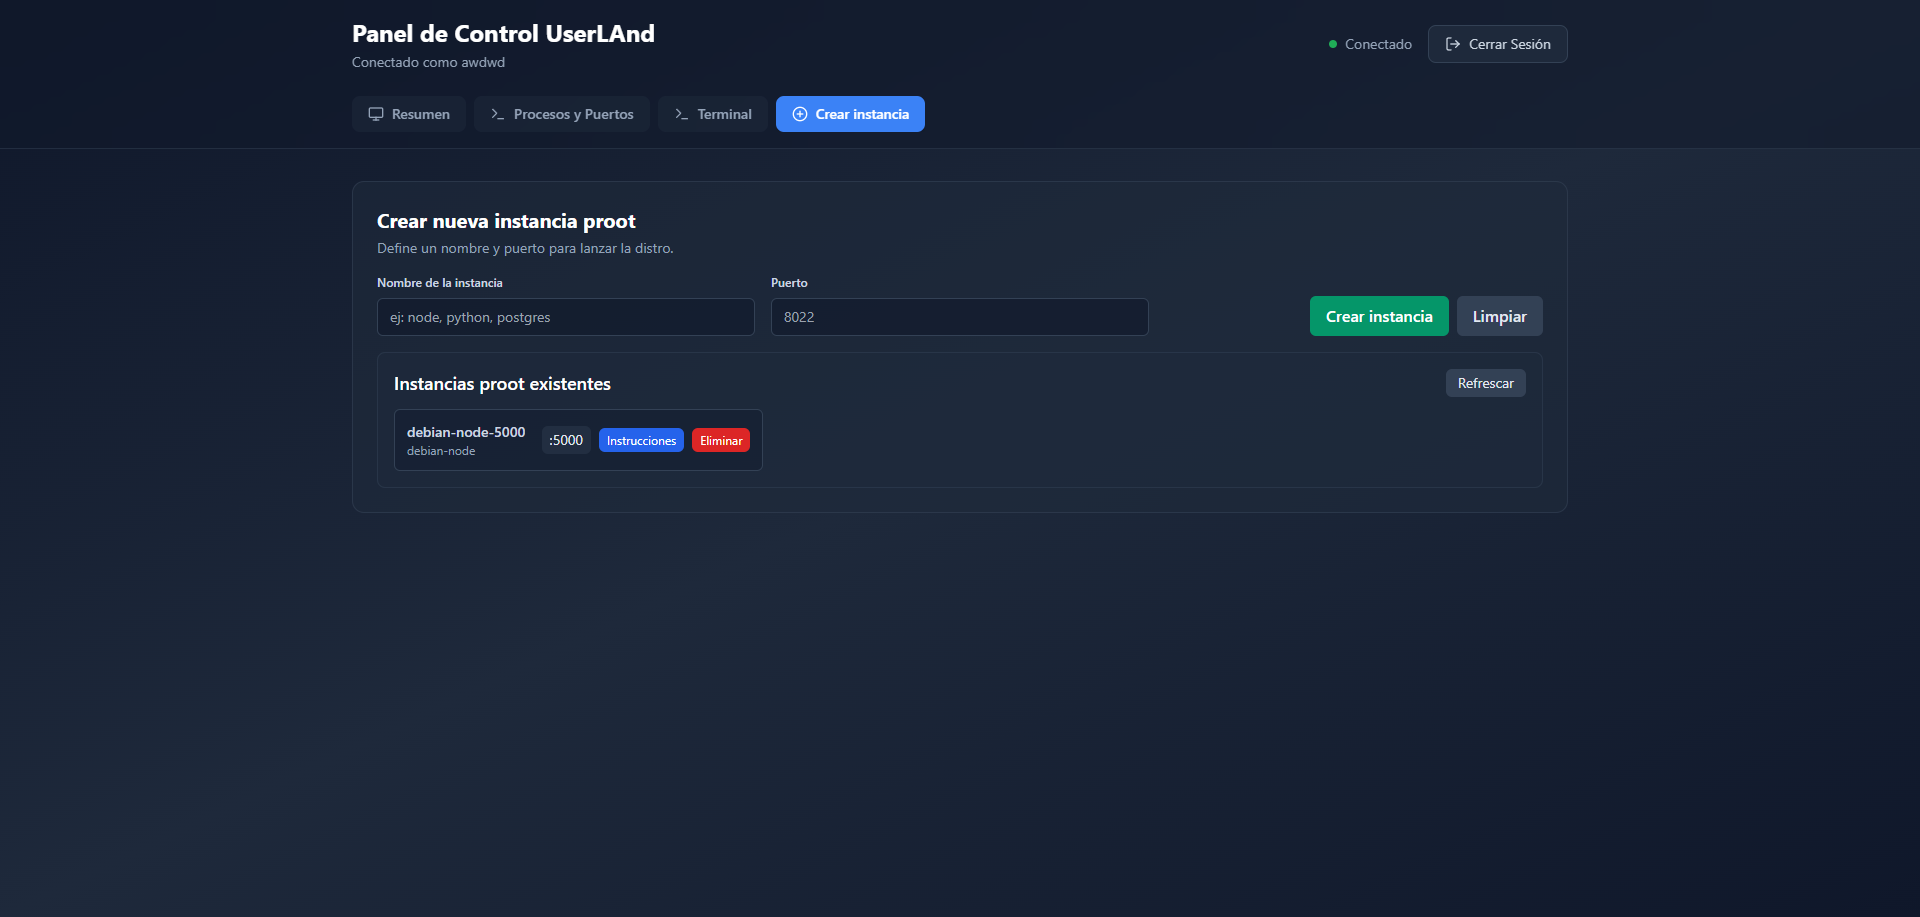
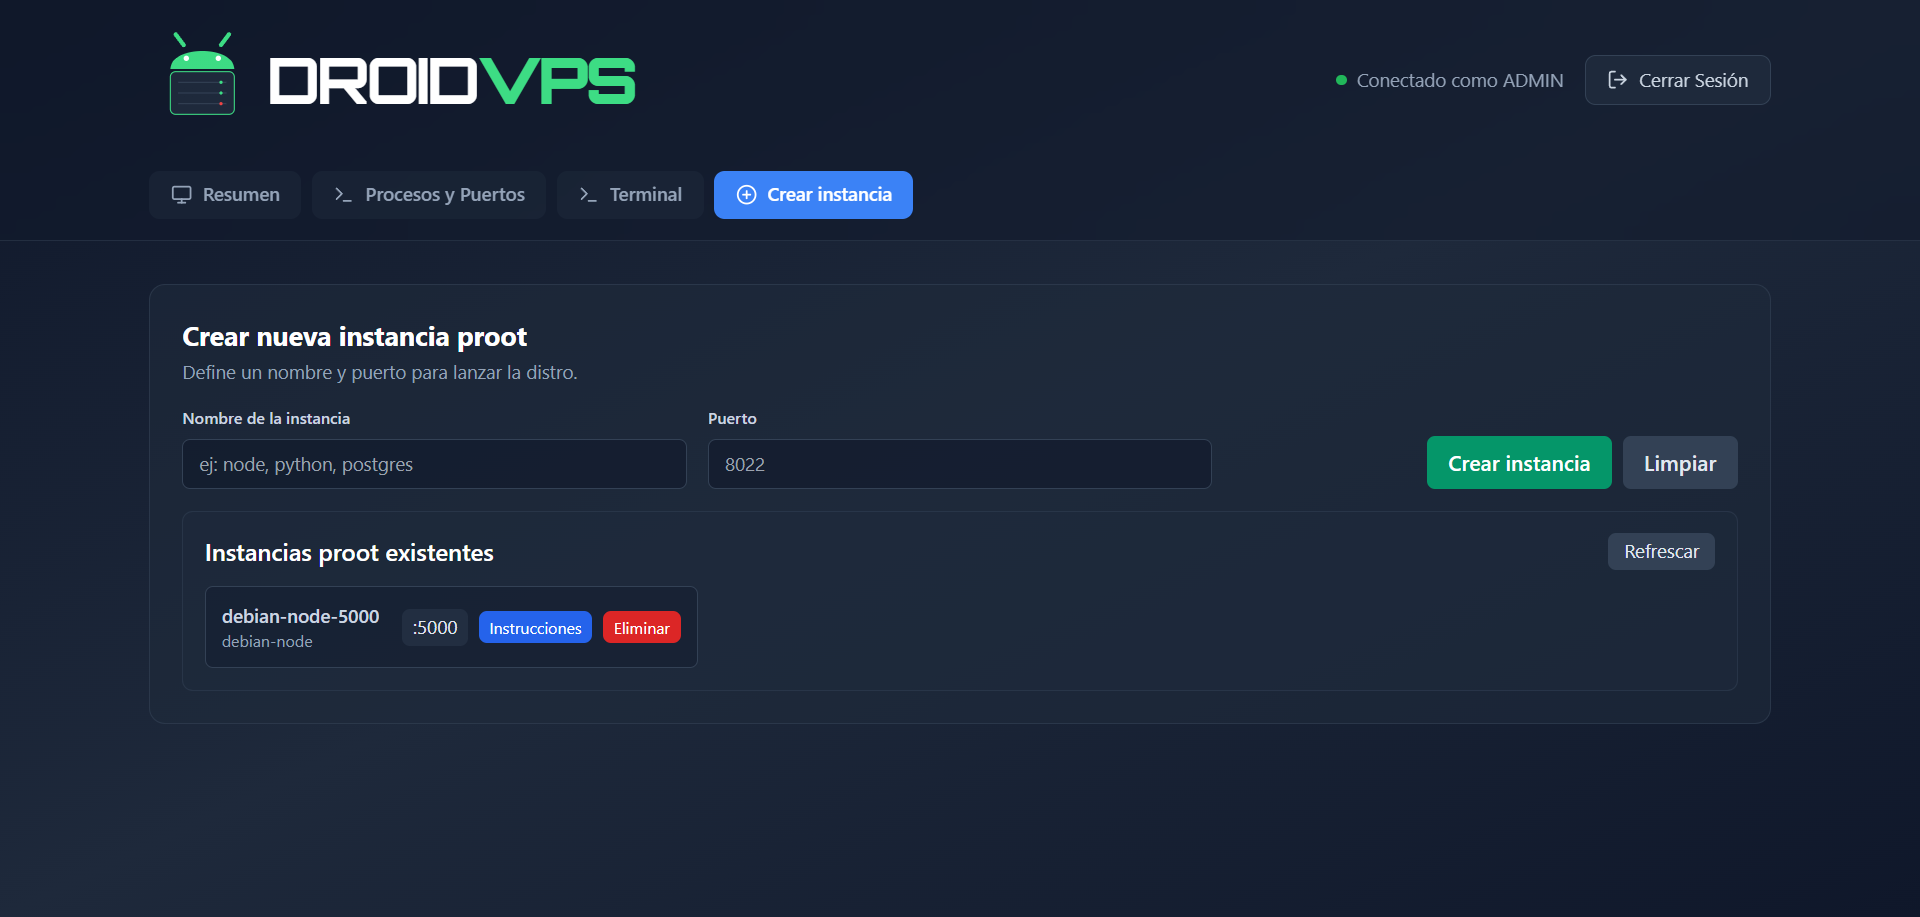
Update project

diff --git a/panel/src/components/Login.tsx b/panel/src/components/Login.tsx
@@ -23,11 +23,58 @@ export function Login({ onLogin, isLoading, error }: LoginProps) {
       <div className="w-full max-w-md">
         <div className="bg-slate-800/50 backdrop-blur-xl rounded-2xl shadow-2xl border border-slate-700/50 p-8">
           <div className="text-center mb-8">
-            <div className="inline-flex items-center justify-center w-16 h-16 bg-gradient-to-br from-blue-500 to-cyan-500 rounded-2xl mb-4 shadow-lg">
-              <FiUser className="w-8 h-8 text-white" />
+            {/* <div className="inline-flex items-center justify-center w-16 h-16 bg-gradient-to-br from-green-500 to-cyan-500 rounded-2xl mb-4 shadow-lg">
+              <FiUser className="w-8 h-8 text-white" /> */}
+            {/* <!-- Icono SVG --> */}
+            <div className="flex flex-col items-center mb-4">
+              <svg viewBox="0 0 200 200" fill="none" xmlns="http://www.w3.org/2000/svg" className="mb-2 w-28 h-28">
+                <defs>
+                  <linearGradient id="droidGradient" x1="0" y1="0" x2="200" y2="200">
+                    <stop offset="0%" stopColor="#3DDC84" /> {/* Android Green */}
+                    <stop offset="100%" stop-color="#258f56" />
+                  </linearGradient>
+                  <linearGradient id="serverGradient" x1="50" y1="80" x2="150" y2="150">
+                    <stop offset="0%" stop-color="#1e293b" />
+                    <stop offset="100%" stop-color="#0f172a" />
+                  </linearGradient>
+                </defs>
+
+                {/* <!-- Antenas (Conexión) --> */}
+                <path d="M65 45 L50 25" stroke="#3DDC84" stroke-width="8" stroke-linecap="round" />
+                <path d="M135 45 L150 25" stroke="#3DDC84" stroke-width="8" stroke-linecap="round" />
+
+                {/* <!-- Cabeza Droide (Mitad superior) --> */}
+                <path d="M40 90 C40 45 160 45 160 90 Z" fill="url(#droidGradient)" />
+
+                {/* <!-- Cuerpo/Servidor (Mitad inferior rectangular) --> */}
+                <rect x="40" y="95" width="120" height="80" rx="10" fill="url(#serverGradient)" stroke="#3DDC84" stroke-width="2" />
+
+                {/* <!-- Racks del servidor (Líneas horizontales) --> */}
+                <line x1="55" y1="115" x2="145" y2="115" stroke="#334155" stroke-width="2" />
+                <line x1="55" y1="135" x2="145" y2="135" stroke="#334155" stroke-width="2" />
+                <line x1="55" y1="155" x2="145" y2="155" stroke="#334155" stroke-width="2" />
+
+                {/* <!-- Luces de estado del servidor (Ojos/Leds) --> */}
+                <circle cx="70" cy="70" r="5" fill="white" />
+                <circle cx="130" cy="70" r="5" fill="white" />
+
+                {/* <!-- Luces de actividad del rack --> */}
+                <circle className="server-light" cx="135" cy="115" r="3" fill="#3DDC84" />
+                <circle className="server-light" cx="135" cy="135" r="3" fill="#3DDC84" />
+                <circle className="server-light" cx="135" cy="155" r="3" fill="#ef4444" /> {/* Luz roja de alerta/busy */}
+
+              </svg>
+              {/* Tipografía */}
+              <div className="text-center">
+                <h1 className="text-5xl tracking-tighter" style={{ fontFamily: 'Orbitron, sans-serif' }}>
+                  <span className="text-white font-bold">DROID</span><span className="text-[#3DDC84] font-black">VPS</span>
+                </h1>
+                <p className="text-slate-400 text-sm mt-2 tracking-widest uppercase">Monitorea y controla tu entorno DroidVPS</p>
+              </div>
             </div>
-            <h1 className="text-3xl font-bold text-white mb-2">Panel de Control DroidVPS</h1>
-            <p className="text-slate-400">Monitorea y controla tu entorno DroidVPS</p>
+            {/* </div> */}
+            {/* <h1 className="text-3xl font-bold text-white mb-2">Panel de Control DroidVPS</h1>
+            <p className="text-slate-400">Monitorea y controla tu entorno DroidVPS</p> */}
           </div>
 
           <form onSubmit={handleSubmit} className="space-y-5">
@@ -41,7 +88,7 @@ export function Login({ onLogin, isLoading, error }: LoginProps) {
                   type="text"
                   value={username}
                   onChange={(e) => setUsername(e.target.value)}
-                  className="w-full pl-11 pr-4 py-3 bg-slate-900/50 border border-slate-600 rounded-lg text-white placeholder-slate-500 focus:outline-none focus:ring-2 focus:ring-blue-500 focus:border-transparent transition"
+                  className="w-full pl-11 pr-4 py-3 bg-slate-900/50 border border-slate-600 rounded-lg text-white placeholder-slate-500 focus:outline-none focus:ring-2 focus:ring-green-500 focus:border-transparent transition"
                   placeholder="Ingresa tu nombre de usuario"
                   required
                   autoComplete="username"
@@ -59,7 +106,7 @@ export function Login({ onLogin, isLoading, error }: LoginProps) {
                   type="password"
                   value={password}
                   onChange={(e) => setPassword(e.target.value)}
-                  className="w-full pl-11 pr-4 py-3 bg-slate-900/50 border border-slate-600 rounded-lg text-white placeholder-slate-500 focus:outline-none focus:ring-2 focus:ring-blue-500 focus:border-transparent transition"
+                  className="w-full pl-11 pr-4 py-3 bg-slate-900/50 border border-slate-600 rounded-lg text-white placeholder-slate-500 focus:outline-none focus:ring-2 focus:ring-green-500 focus:border-transparent transition"
                   placeholder="Ingresa tu contraseña"
                   required
                   autoComplete="current-password"
@@ -77,7 +124,7 @@ export function Login({ onLogin, isLoading, error }: LoginProps) {
             <button
               type="submit"
               disabled={isLoading}
-              className="w-full py-3 bg-gradient-to-r from-blue-500 to-cyan-500 text-white font-semibold rounded-lg hover:from-blue-600 hover:to-cyan-600 focus:outline-none focus:ring-2 focus:ring-blue-500 focus:ring-offset-2 focus:ring-offset-slate-800 transition-all disabled:opacity-50 disabled:cursor-not-allowed shadow-lg"
+              className="w-full py-3 bg-gradient-to-r from-green-500 to-cyan-500 text-white font-semibold rounded-lg hover:from-green-600 hover:to-cyan-600 focus:outline-none focus:ring-2 focus:ring-green-500 focus:ring-offset-2 focus:ring-offset-slate-800 transition-all disabled:opacity-50 disabled:cursor-not-allowed shadow-lg"
             >
               {isLoading ? 'Conectando...' : 'Conectar'}
             </button>

diff --git a/panel/src/components/Dashboard.tsx b/panel/src/components/Dashboard.tsx
@@ -156,16 +156,57 @@ export function Dashboard({ serverUrl, token, username, onLogout }: DashboardPro
       <header className="bg-slate-900/50 backdrop-blur-xl border-b border-slate-700/50 sticky top-0 z-40">
         <div className="max-w-7xl mx-auto px-3 sm:px-6 lg:px-8 py-3 sm:py-4">
           <div className="flex flex-col sm:flex-row items-start sm:items-center justify-between gap-3">
-            <div className="flex-1">
-              <h1 className="text-xl sm:text-2xl font-bold text-white">Panel de Control DroidVPS</h1>
-              <p className="text-xs sm:text-sm text-slate-400 mt-1">Conectado como {username}</p>
+            <div className="flex-1 flex flex-row items-center gap-3 w-full lg:w-auto">
+              <div className="flex flex-row items-center gap-2">
+
+                <svg
+                  viewBox="0 0 200 200"
+                  xmlns="http://www.w3.org/2000/svg"
+                  className="w-16 h-16 sm:w-20 sm:h-20 flex-shrink-0 mb-2"
+                  fill="none"
+                >
+                  <defs>
+                    <linearGradient id="droidGradient" x1="0" y1="0" x2="200" y2="200">
+                      <stop offset="0%" stopColor="#3DDC84" />
+                      <stop offset="100%" stopColor="#258f56" />
+                    </linearGradient>
+                    <linearGradient id="serverGradient" x1="50" y1="80" x2="150" y2="150">
+                      <stop offset="0%" stopColor="#1e293b" />
+                      <stop offset="100%" stopColor="#0f172a" />
+                    </linearGradient>
+                  </defs>
+
+                  <path d="M65 45 L50 25" stroke="#3DDC84" strokeWidth="8" strokeLinecap="round" />
+                  <path d="M135 45 L150 25" stroke="#3DDC84" strokeWidth="8" strokeLinecap="round" />
+                  <path d="M40 90 C40 45 160 45 160 90 Z" fill="url(#droidGradient)" />
+                  <rect x="40" y="95" width="120" height="80" rx="10" fill="url(#serverGradient)" stroke="#3DDC84" strokeWidth="2" />
+                  <line x1="55" y1="115" x2="145" y2="115" stroke="#334155" strokeWidth="2" />
+                  <line x1="55" y1="135" x2="145" y2="135" stroke="#334155" strokeWidth="2" />
+                  <line x1="55" y1="155" x2="145" y2="155" stroke="#334155" strokeWidth="2" />
+                  <circle cx="70" cy="70" r="5" fill="white" />
+                  <circle cx="130" cy="70" r="5" fill="white" />
+                  <circle cx="135" cy="115" r="3" fill="#3DDC84" />
+                  <circle cx="135" cy="135" r="3" fill="#3DDC84" />
+                  <circle cx="135" cy="155" r="3" fill="#ef4444" />
+                </svg>
+
+                <h1
+                  className="text-3xl sm:text-5xl tracking-tighter leading-none"
+                  style={{ fontFamily: 'Orbitron, sans-serif' }}
+                >
+                  <span className="text-white font-bold">DROID</span>
+                  <span className="text-[#3DDC84] font-black">VPS</span>
+                </h1>
+
+              </div>
             </div>
+
 
             <div className="flex items-center gap-2 sm:gap-4 w-full sm:w-auto justify-between sm:justify-end">
               <div className="flex items-center gap-2">
                 <div className={`w-2 h-2 rounded-full ${isConnected ? 'bg-green-500' : 'bg-red-500'} animate-pulse`} />
                 <span className="text-xs sm:text-sm text-slate-400">
-                  {isConnected ? 'Conectado' : 'Desconectado'}
+                  {isConnected ? `Conectado como ${username.toUpperCase()}` : 'Desconectado'}
                 </span>
               </div>
 

diff --git a/panel/index.html b/panel/index.html
@@ -8,6 +8,7 @@
     <meta name="description" content="Monitor and control your DroidVPS environment via web browser" />
     <meta property="og:title" content="DroidVPS" />
     <meta property="og:description" content="Real-time monitoring and control dashboard for DroidVPS" />
+    <link href="https://fonts.googleapis.com/css2?family=Orbitron:wght@400;700;900&family=Roboto:wght@300;400;500&display=swap" rel="stylesheet">
   </head>
   <body>
     <div id="root"></div>

diff --git a/FEATURES.md b/FEATURES.md
@@ -1,0 +1,90 @@
+# ✨ Features
+
+DroidVPS provides a comprehensive set of features to manage and monitor your mobile VPS environment.
+
+## 🖥 Real-Time System Monitoring
+
+- **CPU Monitoring** — Track CPU usage, frequency, and temperature in real-time
+- **RAM Usage** — Monitor memory consumption with visual charts
+- **Disk Space** — Keep track of available storage across all partitions
+- **Battery Status** — Monitor battery level, temperature, and charging status
+- **Network Stats** — Track network usage and connectivity
+
+## 🐧 Distribution Management
+
+- **Multiple Debian Distributions** — Run multiple isolated Debian environments simultaneously
+- **Proot-Distro Integration** — Full integration with proot-distro for container management
+- **Distribution List View** — See all installed distributions at a glance
+- **Quick Launch** — Start, stop, and restart distributions with one click
+- **Error Isolation** — Each project runs in its own distro to prevent cross-contamination
+
+## 📊 Process Management
+
+- **Live Process List** — View all running processes in real-time
+- **Process Details** — See PID, CPU usage, memory usage, and command for each process
+- **Process Control** — Kill or manage processes directly from the dashboard
+- **Proot Process Tracking** — Monitor processes running inside proot environments
+
+## 🔌 Port Management
+
+- **Port Mapping** — Manage application ports through Termux
+- **Port Conflict Detection** — Identify and resolve port conflicts
+- **Multi-App Deployment** — Deploy multiple applications on different ports
+- **Port Status Monitoring** — Track which ports are in use and by which services
+
+## 🎨 Modern Web Dashboard
+
+- **Responsive Design** — Works on mobile, tablet, and desktop
+- **Real-Time Updates** — WebSocket-based live data streaming
+- **Interactive Charts** — Visual representations of system metrics
+- **Dark Theme** — Eye-friendly interface optimized for extended use
+- **Intuitive Navigation** — Clean, organized layout for easy access
+
+## 🔒 Security
+
+- **Authentication System** — Secure login with username and password
+- **Token-Based Auth** — JWT tokens for secure API communication
+- **Credential Management** — Safe credential storage and validation
+- **First-Run Setup** — Guided credential creation on initial deployment
+
+## ⚡ Performance
+
+- **Lightweight** — Optimized for mobile hardware with minimal resource usage
+- **Fast Response** — Efficient WebSocket communication for instant updates
+- **Low Overhead** — Minimal impact on system performance
+- **Resource Efficient** — Designed to run alongside your applications
+
+## 🛠 Technical Features
+
+- **Node.js Backend** — Robust Express server with WebSocket support
+- **React Frontend** — Modern TypeScript-based UI with Vite
+- **TailwindCSS** — Beautiful, responsive styling
+- **Modular Architecture** — Clean, maintainable codebase
+- **Easy Configuration** — Simple setup with sensible defaults
+
+## 🚀 Developer-Friendly
+
+- **Hot Reload** — Development mode with instant updates
+- **TypeScript Support** — Full type safety for better development experience
+- **Extensible** — Easy to add new features and metrics
+- **Well-Documented** — Clear documentation and code comments
+- **Open Source** — MIT License for free use and modification
+
+## 📱 Android Optimization
+
+- **Termux Native** — Built specifically for Termux environment
+- **Battery Aware** — Optimized to minimize battery drain
+- **Storage Efficient** — Minimal disk space requirements
+- **Network Adaptive** — Works on WiFi and mobile data
+- **Background Ready** — Can run as a background service
+
+## 🔄 Automatic Features
+
+- **Auto-Reconnect** — Automatic reconnection on connection loss
+- **Live Refresh** — Continuous data updates without manual refresh
+- **Error Recovery** — Graceful handling of errors and failures
+- **Status Indicators** — Clear visual feedback on system status
+
+---
+
+**More features are constantly being added!** Check the repository for the latest updates.
